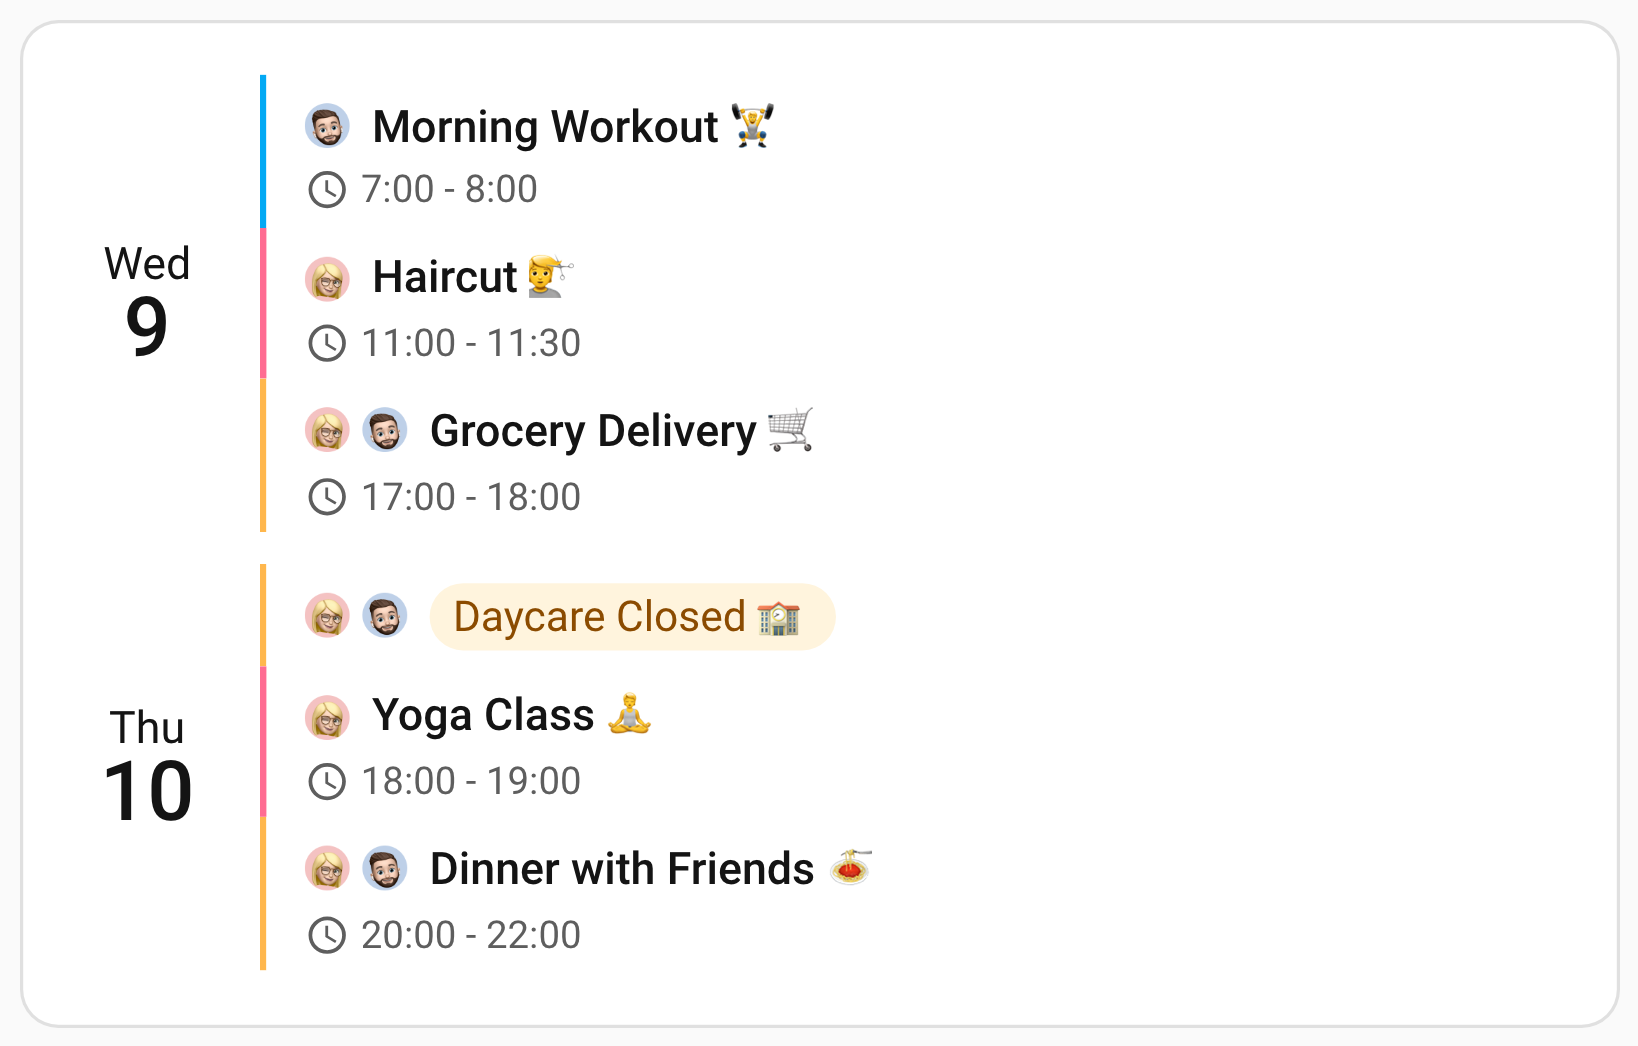
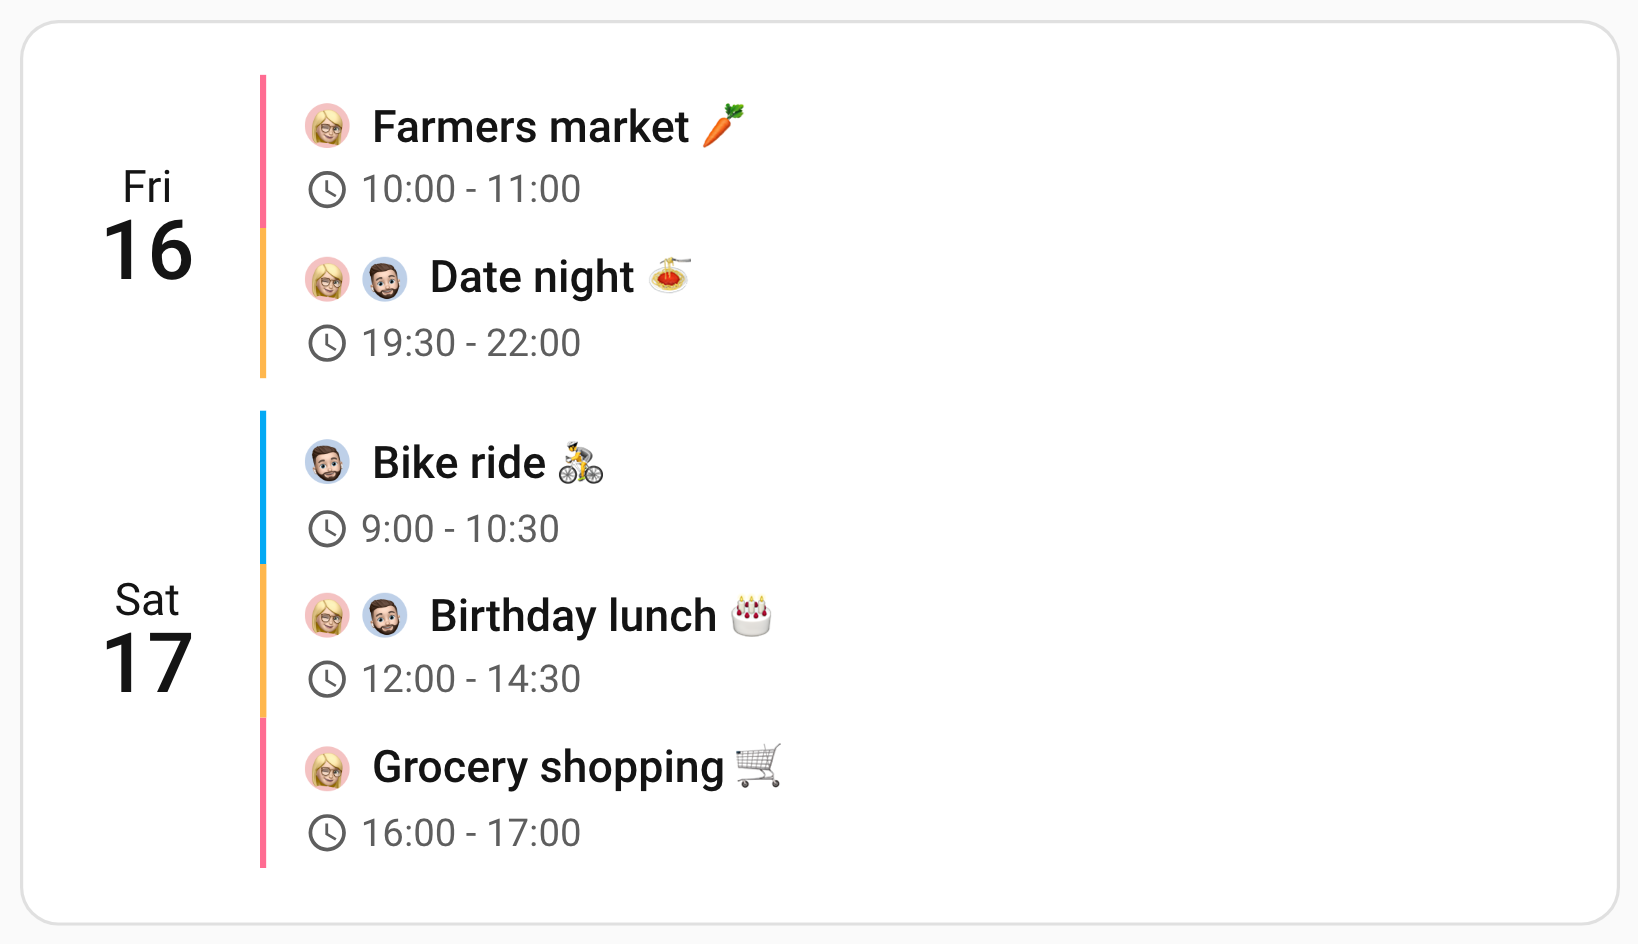
docs: put the shared-events plate on the family's week too
The shared-events example uses the same faces as the walkthroughs, but it
still showed the testing calendars' events, such as Morning Workout and a
Daycare Closed shared by Anna and Ben, which Leo alone has in the family
week. The plate now shows Fri 16 and Sat 17 of that week from Anna's and
Ben's calendars: her farmers market, his bike ride, and the date night and
birthday lunch they share in gold. Core Settings says so.

The agenda no longer claims a #family description marker is invisible to
everyone else. Anyone invited to a meeting can read its description; the
marker is only kept off this card.

family-walkthroughs.test.ts also pins each card's window and hours beside
the sentence that quotes them: the grid's Monday-start week on a 07:00-22:00
axis, and the agenda's three days from today.

Copilot-Session: d37a66b7-7817-4927-91ab-ee83eec98f6b

diff --git a/tests/family-walkthroughs.test.ts b/tests/family-walkthroughs.test.ts
@@ -17,7 +17,16 @@
  * What may legitimately differ between the displays is the number of blocks per calendar and
  * the labels on the calendars whose events the grid draws only as banners. Both are checked
  * against each page's own calendar table rather than against the other page.
+ *
+ * What this suite cannot see is the events themselves. The week both screenshots show is
+ * generated outside the repository, from the demo pack that also feeds the capture
+ * dashboards, so the titles and times in the pictures are held together by that one
+ * generator rather than by a test. `tests/one-calendar-many-purposes.test.ts` runs the agenda
+ * card over events written with the family's titles, which is as close as the repository
+ * gets.
  */
+import { readFileSync } from 'node:fs';
+
 import { describe, expect, it } from 'vitest';
 
 import {
@@ -98,6 +107,29 @@ describe('the two family walkthroughs describe one family', () => {
       expect(card.config.filter_duplicates).toBe(true);
       expect(card.config.duplicate_accent_color).toBe(PALETTE['calendar.family']);
     }
+  });
+
+  it('show the window and the hours each page describes', () => {
+    // The grid is the week Monday to Sunday on a 07:00-22:00 axis, and the agenda three days
+    // from today. These are the numbers the prose and both screenshots quote, so each is
+    // pinned beside the sentence that quotes it: a card that changed one would leave its page
+    // describing a picture the card no longer draws.
+    const grid = readFileSync(PAGES.grid, 'utf8');
+    const agenda = readFileSync(PAGES.agenda, 'utf8');
+
+    expect(CARDS.grid.config).toMatchObject({
+      view: 'grid',
+      start_date: 'start_of_week',
+      first_day_of_week: 'monday',
+      days_to_show: 7,
+      time_grid: { start_time: '07:00', end_time: '22:00', min_days_to_show: 7 },
+    });
+    expect(grid).toContain('The axis runs from 07:00 to 22:00');
+    expect(grid).toContain('`first_day_of_week: monday` starts that week on Monday');
+
+    expect(CARDS.agenda.config).toMatchObject({ view: 'list', days_to_show: 3 });
+    expect(CARDS.agenda.config.start_date).toBeUndefined();
+    expect(agenda).toContain('three days, today first');
   });
 
   it('put the same face on the same calendars on both displays', () => {

diff --git a/docs/guide/one-calendar-many-purposes.md b/docs/guide/one-calendar-many-purposes.md
@@ -173,7 +173,7 @@ But a blanket _Busy_ is too blunt, because a work calendar also carries the thin
 
 Both blocks keep the work calendar's gray and Ben's face, so on the screen only the title tells them apart.
 
-Splitting on the description rather than the title is what makes this bearable to live with. Nobody wants to rename a work meeting to control how it appears on a screen at home, and a title prefix would follow the event into every colleague's calendar. A description marker is private to the event and invisible to everyone else.
+Splitting on the description rather than the title is what makes this bearable to live with. Nobody wants to rename a work meeting to control how it appears on a screen at home, and a title prefix would follow the event into every colleague's calendar. A description marker leaves the title alone, and this card never shows it, because descriptions are hidden by default. Anyone invited to the meeting can still read the description in their own calendar, though, so mark only the events where that is fine.
 
 [`days_of_week: weekdays`](/features/core-settings#showing-a-calendar-on-weekdays-only) is on both halves. A work calendar that keeps talking on Sunday is noise on a family screen.
 

diff --git a/docs/features/core-settings.md b/docs/features/core-settings.md
@@ -715,8 +715,10 @@ entities:
 
 Anna's own events stay pink and Ben's stay blue. Anything they both hold shows **both** faces
 in front of the title and turns gold — the faces say whose it is, the gold says at a glance
-that it is shared. The colors are the ones the family has in the
-[walkthroughs](/guide/family-calendar), where gold is also their Family calendar's color.
+that it is shared. This is Friday and Saturday of the family's week from the
+[walkthroughs](/guide/family-calendar), in their colors, where gold is also the Family
+calendar's. Only Anna's and Ben's calendars are on this card, so the birthday lunch that
+shows three faces there shows two here.
 
 **The labels need nothing switched on.** A merged row draws the label of every calendar it
 came from, in the order the calendars are listed, so if you already label your calendars this
